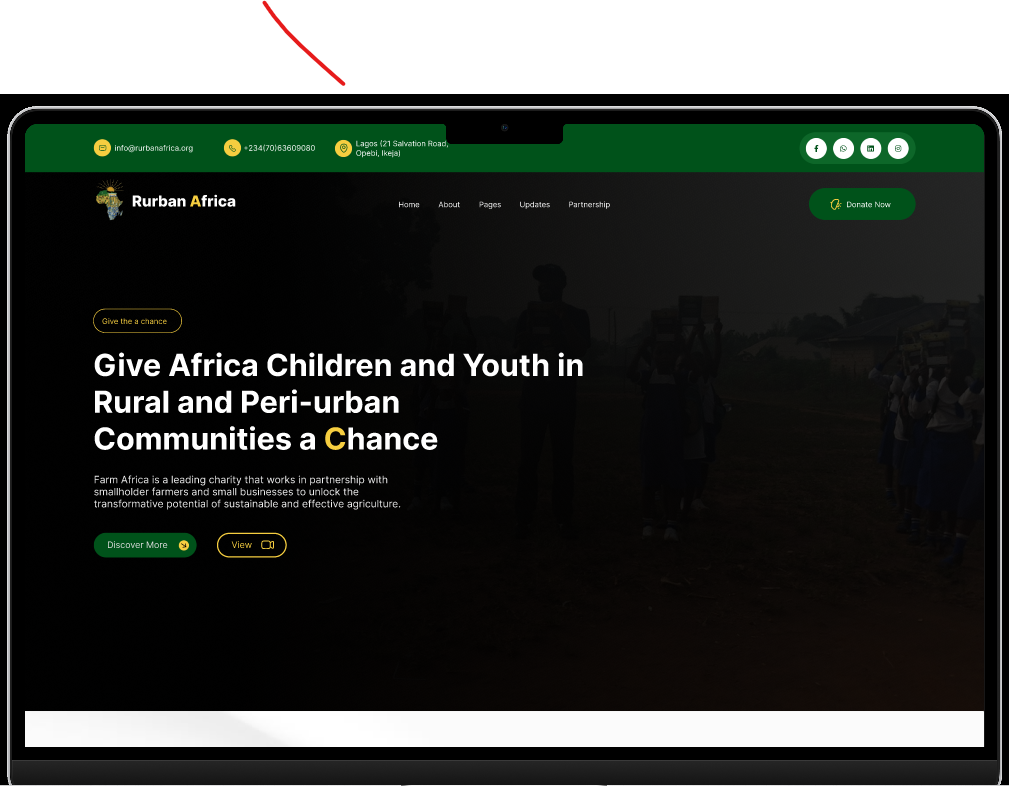
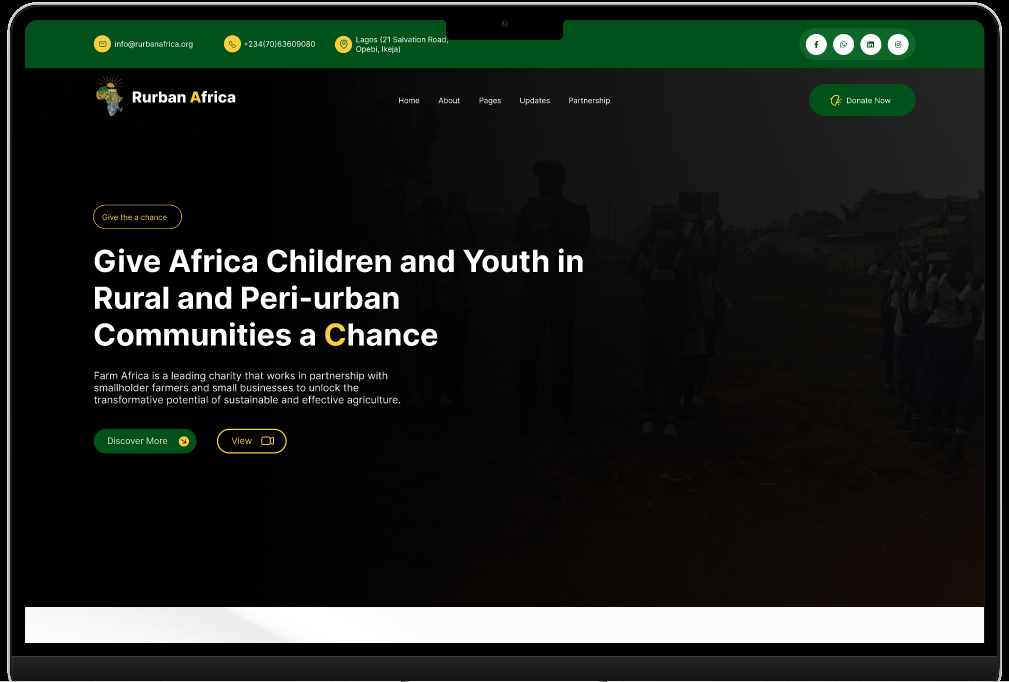
made new changes

diff --git a/index.html b/index.html
@@ -1510,11 +1510,11 @@
                     </div>
                 </div>
                 <div class="project-card visible" data-category="backend">
-                    <img src="./images/projects/project1.png" alt="Realestate Agency">
+                    <img src="./images/projects/project1.png" alt="Uniland Foods">
                     <div class="project-overlay">
                         <div class="project-cat">Backend Developer</div>
-                        <div class="project-name">Real Estate Agency</div>
-                        <a href="https://dominichigozie2.github.io/realestate/" target="_blank" class="project-cta">
+                        <div class="project-name">Uniland Foods</div>
+                        <a href="https://unilanfoods.com/" target="_blank" class="project-cta">
                             View Live <i class="fa fa-external-link-alt"></i>
                         </a>
                     </div>
@@ -1548,6 +1548,16 @@
                         <a href="#" class="project-cta">View Demo <i class="fa fa-external-link-alt"></i></a>
                     </div>
                 </div>
+
+                <div class="project-card" data-category="UI">
+                    <img src="./images/projects/project2.png" alt="Paint Website">
+                    <div class="project-overlay">
+                        <div class="project-cat">UI/UX Design</div>
+                        <div class="project-name">Paint Website UI</div>
+                        <a href="#" class="project-cta">View Demo <i class="fa fa-external-link-alt"></i></a>
+                    </div>
+                </div>
+
                 <div class="project-card" data-category="wordpress">
                     <img src="./images/projects/iceremedies.png" alt="Ice Remedies">
                     <div class="project-overlay">
